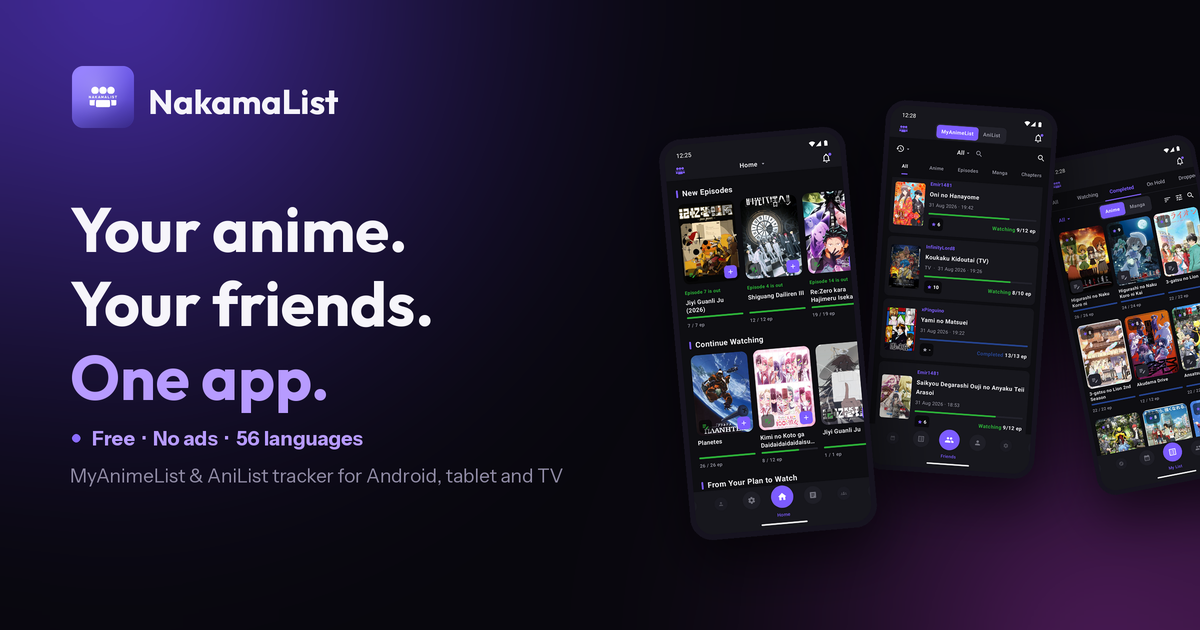
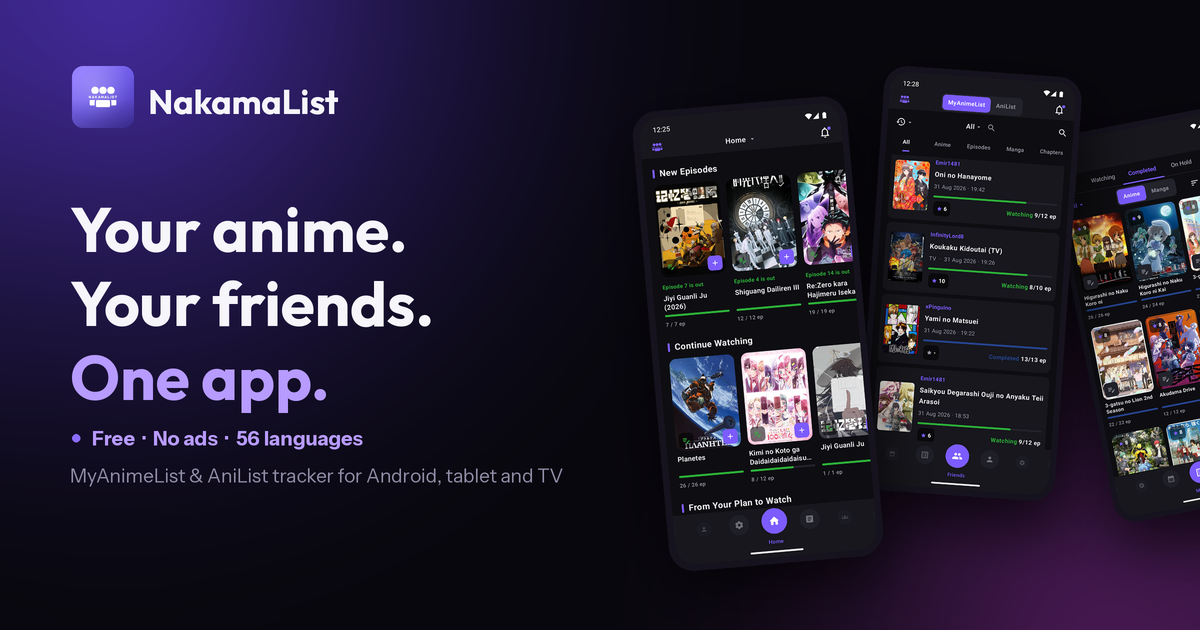
Site: secure site branch, tablet screenshot, landscape social card, WCAG AA contrast, non-blocking fonts, SEO infra

diff --git a/index.html b/index.html
@@ -56,7 +56,9 @@
   --edge:clamp(20px,5vw,80px);
   --bezel:#16131f; --bezel-w:10px; --bezel-r:38px;
   --phone:1080/2400;                 /* every screenshot is this ratio */
-  --dev-w:min(300px,72vw,calc(70vh*0.45));  /* one width for every device */
+  --dev-w:min(332px,74vw,calc(74vh*0.45));  /* one width for every phone */
+  --tab-w:min(500px,86vw,calc(62vh*1.6));   /* landscape tablet, 16:10 */
+  --tablet:2560/1600;
   --badge-h:clamp(56px,4.4vw,68px);         /* Play badge, and the button beside it */
   --step:clamp(3.2rem,11vw,10rem);   /* display */
   --step2:clamp(2.2rem,6vw,4.8rem);  /* section head */
@@ -213,6 +215,8 @@ nav.open .burger span::after{transform:translateY(-6px) rotate(-45deg)}
   border-radius:var(--bezel-r);border:var(--bezel-w) solid var(--bezel);background:#000;
   overflow:hidden;box-shadow:0 44px 100px rgba(0,0,0,.66),0 0 0 1px rgba(255,255,255,.05) inset}
 .shot img{width:100%;height:100%;object-fit:cover;display:block}
+/* The tablet shot is landscape 16:10 - reusing the phone frame would squash it. */
+.shot--tab{width:var(--tab-w);aspect-ratio:var(--tablet);border-radius:24px;border-width:12px}
 
 /* --- pull quote ---------------------------------------------------- */
 .pull{padding:clamp(80px,12vh,150px) var(--edge);text-align:center}
@@ -235,7 +239,8 @@ nav.open .burger span::after{transform:translateY(-6px) rotate(-45deg)}
 .rail figure{flex:none;scroll-snap-align:start;text-align:center}
 /* height-driven, so a whole phone screen fits on-screen at once */
 .rail .shot{box-shadow:0 30px 70px rgba(0,0,0,.6),0 0 0 1px rgba(255,255,255,.05) inset}
-@media(max-width:900px){:root{--dev-w:min(280px,64vw,calc(60vh*0.45))}}
+@media(max-width:900px){:root{--dev-w:min(300px,68vw,calc(64vh*0.45));
+  --tab-w:min(460px,84vw,calc(52vh*1.6))}}
 .rail figcaption{margin-top:12px;font-size:12.5px;color:var(--dim);letter-spacing:.02em}
 .rail-nav{display:flex;align-items:center;gap:12px;padding:0 var(--edge)}
 .rail-nav button{width:42px;height:42px;flex:none;border:1px solid var(--line-strong);border-radius:50%;
@@ -294,7 +299,7 @@ footer{border-top:1px solid var(--line);padding:44px var(--edge);
 </style>
 
 <script type="application/ld+json">
-{"@context":"https://schema.org","@graph":[{"@type":"WebSite","@id":"https://asa07-salihg.github.io/NakamaList/#website","name":"NakamaList","url":"https://asa07-salihg.github.io/NakamaList/","inLanguage":"en"},{"@type":"SoftwareApplication","name":"NakamaList","softwareVersion":"1.7.2","dateModified":"2026-09-01","operatingSystem":"Android 8.0+","applicationCategory":"EntertainmentApplication","url":"https://asa07-salihg.github.io/NakamaList/","downloadUrl":"https://play.google.com/store/apps/details?id=com.nakamalist.app","installUrl":"https://play.google.com/store/apps/details?id=com.nakamalist.app","image":"https://asa07-salihg.github.io/NakamaList/assets/og-card.png","inLanguage":"en","description":"Free, ad-free MyAnimeList and AniList client for Android, tablet and TV. Track anime and manga, follow friends and compare their scores, and browse seasonal anime, rankings, news and forums.","author":{"@type":"Person","name":"Ahmet Salih Golen"},"offers":{"@type":"Offer","price":"0","priceCurrency":"USD"},"screenshot":["https://asa07-salihg.github.io/NakamaList/assets/home.webp","https://asa07-salihg.github.io/NakamaList/assets/friends.webp","https://asa07-salihg.github.io/NakamaList/assets/mylist.webp","https://asa07-salihg.github.io/NakamaList/assets/detail.webp"],"featureList":["Track anime and manga","Friends activity feed and Friend Scores","Sign in with MyAnimeList or AniList","Optional AniList sync","Seasonal anime","Rankings and recommendations","News, forums and clubs","New-episode notifications","Android tablet and Android TV support","56 languages"]},{"@type":"FAQPage","mainEntity":[{"@type":"Question","name":"Is NakamaList free?","acceptedAnswer":{"@type":"Answer","text":"Yes. NakamaList is completely free, with no ads and no third-party tracking."}},{"@type":"Question","name":"Is NakamaList an official MyAnimeList app?","acceptedAnswer":{"@type":"Answer","text":"No. NakamaList is an independent, unofficial MyAnimeList client. It uses the official MyAnimeList API with your own account and is not affiliated with MyAnimeList."}},{"@type":"Question","name":"Does NakamaList track manga as well as anime?","acceptedAnswer":{"@type":"Answer","text":"Yes. You can track both anime and manga, including status, score, episodes, chapters, volumes, dates, tags and notes."}},{"@type":"Question","name":"Can I sync with AniList?","acceptedAnswer":{"@type":"Answer","text":"Yes. You can sign in with AniList on its own, or link it alongside MyAnimeList to read reviews and keep both lists in sync."}},{"@type":"Question","name":"Can I follow my friends?","acceptedAnswer":{"@type":"Answer","text":"Yes. Add people by MyAnimeList username or follow AniList accounts, then see everyone in one activity feed, browse their lists, and compare Friend Scores on any title."}},{"@type":"Question","name":"Does NakamaList work on tablets and Android TV?","acceptedAnswer":{"@type":"Answer","text":"Yes. It fills a tablet screen instead of running in a portrait strip, and it runs on Android TV and Google TV with full remote control."}},{"@type":"Question","name":"What Android version do I need?","acceptedAnswer":{"@type":"Answer","text":"NakamaList runs on Android 8.0 and newer."}},{"@type":"Question","name":"Does NakamaList show seasonal anime and rankings?","acceptedAnswer":{"@type":"Answer","text":"Yes. You can browse seasonal anime back to 1917, official rankings, recommendations, news, forums and clubs."}},{"@type":"Question","name":"How do I report a bug or ask for a feature?","acceptedAnswer":{"@type":"Answer","text":"Open an issue on GitHub at https://github.com/asa07-salihg/NakamaList/issues, or email nakamalist@proton.me. Bug reports and feature requests both have a template ready."}}]}]}
+{"@context":"https://schema.org","@graph":[{"@type":"WebSite","@id":"https://asa07-salihg.github.io/NakamaList/#website","name":"NakamaList","url":"https://asa07-salihg.github.io/NakamaList/","inLanguage":"en"},{"@type":"SoftwareApplication","name":"NakamaList","softwareVersion":"1.7.2","dateModified":"2026-09-01","operatingSystem":"Android 8.0+","applicationCategory":"EntertainmentApplication","url":"https://asa07-salihg.github.io/NakamaList/","downloadUrl":"https://play.google.com/store/apps/details?id=com.nakamalist.app","installUrl":"https://play.google.com/store/apps/details?id=com.nakamalist.app","image":"https://asa07-salihg.github.io/NakamaList/assets/og-card.png","inLanguage":"en","description":"Free, ad-free MyAnimeList and AniList client for Android, tablet and TV. Track anime and manga, follow friends and compare their scores, and browse seasonal anime, rankings, news and forums.","author":{"@type":"Person","name":"Ahmet Salih Golen"},"offers":{"@type":"Offer","price":"0","priceCurrency":"USD"},"screenshot":["https://asa07-salihg.github.io/NakamaList/assets/home.webp","https://asa07-salihg.github.io/NakamaList/assets/friends.webp","https://asa07-salihg.github.io/NakamaList/assets/mylist.webp","https://asa07-salihg.github.io/NakamaList/assets/detail.webp","https://asa07-salihg.github.io/NakamaList/assets/tablet-home.webp"],"featureList":["Track anime and manga","Friends activity feed and Friend Scores","Sign in with MyAnimeList or AniList","Optional AniList sync","Seasonal anime","Rankings and recommendations","News, forums and clubs","New-episode notifications","Android tablet and Android TV support","56 languages"]},{"@type":"FAQPage","mainEntity":[{"@type":"Question","name":"Is NakamaList free?","acceptedAnswer":{"@type":"Answer","text":"Yes. NakamaList is completely free, with no ads and no third-party tracking."}},{"@type":"Question","name":"Is NakamaList an official MyAnimeList app?","acceptedAnswer":{"@type":"Answer","text":"No. NakamaList is an independent, unofficial MyAnimeList client. It uses the official MyAnimeList API with your own account and is not affiliated with MyAnimeList."}},{"@type":"Question","name":"Does NakamaList track manga as well as anime?","acceptedAnswer":{"@type":"Answer","text":"Yes. You can track both anime and manga, including status, score, episodes, chapters, volumes, dates, tags and notes."}},{"@type":"Question","name":"Can I sync with AniList?","acceptedAnswer":{"@type":"Answer","text":"Yes. You can sign in with AniList on its own, or link it alongside MyAnimeList to read reviews and keep both lists in sync."}},{"@type":"Question","name":"Can I follow my friends?","acceptedAnswer":{"@type":"Answer","text":"Yes. Add people by MyAnimeList username or follow AniList accounts, then see everyone in one activity feed, browse their lists, and compare Friend Scores on any title."}},{"@type":"Question","name":"Does NakamaList work on tablets and Android TV?","acceptedAnswer":{"@type":"Answer","text":"Yes. It fills a tablet screen instead of running in a portrait strip, and it runs on Android TV and Google TV with full remote control."}},{"@type":"Question","name":"What Android version do I need?","acceptedAnswer":{"@type":"Answer","text":"NakamaList runs on Android 8.0 and newer."}},{"@type":"Question","name":"Does NakamaList show seasonal anime and rankings?","acceptedAnswer":{"@type":"Answer","text":"Yes. You can browse seasonal anime back to 1917, official rankings, recommendations, news, forums and clubs."}},{"@type":"Question","name":"How do I report a bug or ask for a feature?","acceptedAnswer":{"@type":"Answer","text":"Open an issue on GitHub at https://github.com/asa07-salihg/NakamaList/issues, or email nakamalist@proton.me. Bug reports and feature requests both have a template ready."}}]}]}
 </script>
 </head>
 
@@ -454,9 +459,9 @@ footer{border-top:1px solid var(--line);padding:44px var(--edge);
           <li><svg viewBox="0 0 24 24"><path d="M20 6L9 17l-5-5"/></svg>Home-screen Continue widgets and airing notifications</li>
         </ul>
       </div>
-      <div class="shot rv d1">
-        <img src="assets/profile.webp" width="1080" height="2400" loading="lazy" decoding="async"
-             alt="Profile with anime and manga statistics"/>
+      <div class="shot shot--tab rv d1">
+        <img src="assets/tablet-home.webp" width="2560" height="1600" loading="lazy" decoding="async"
+             alt="NakamaList on an Android tablet, filling the screen in landscape with Continue Watching and Plan to Watch rows"/>
       </div>
     </div>
   </section>
